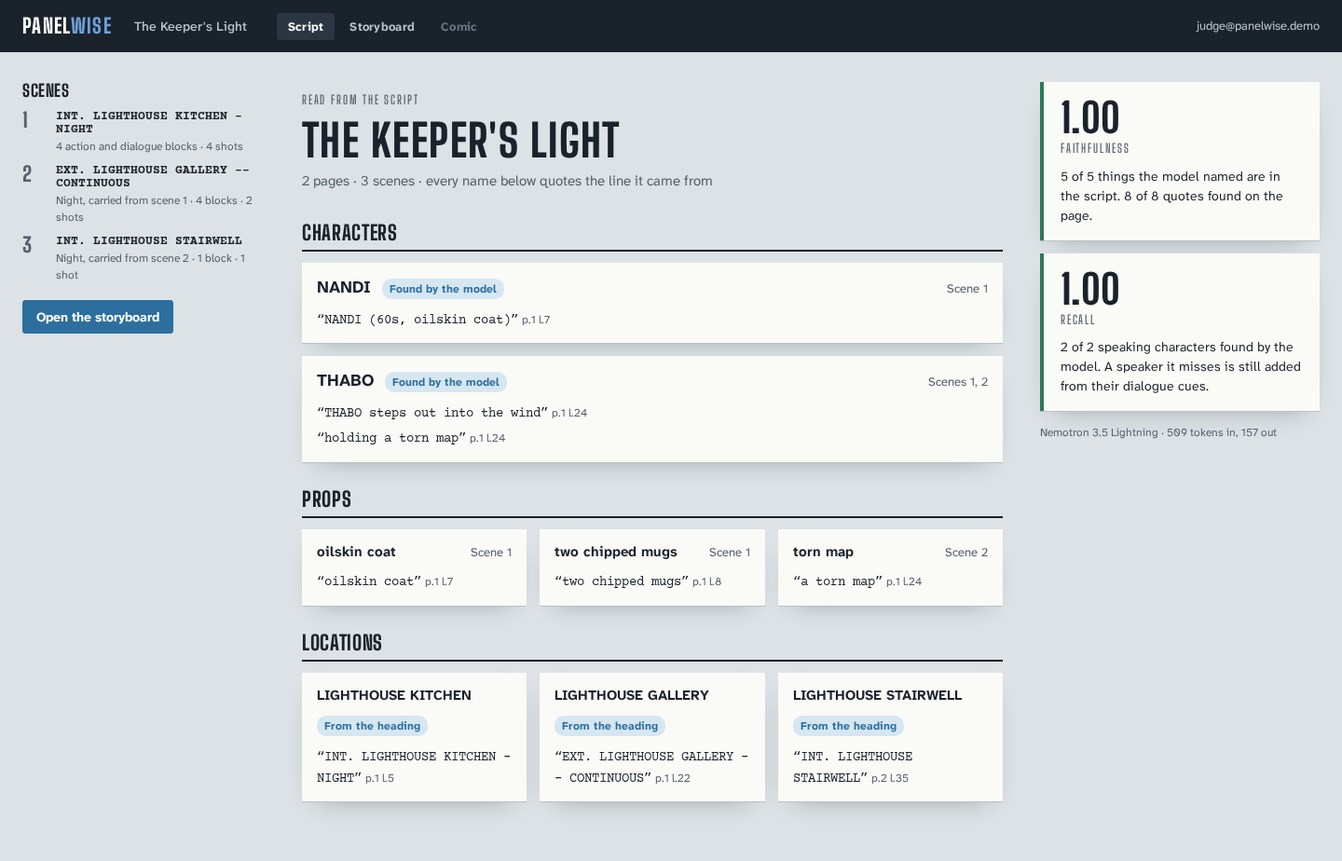
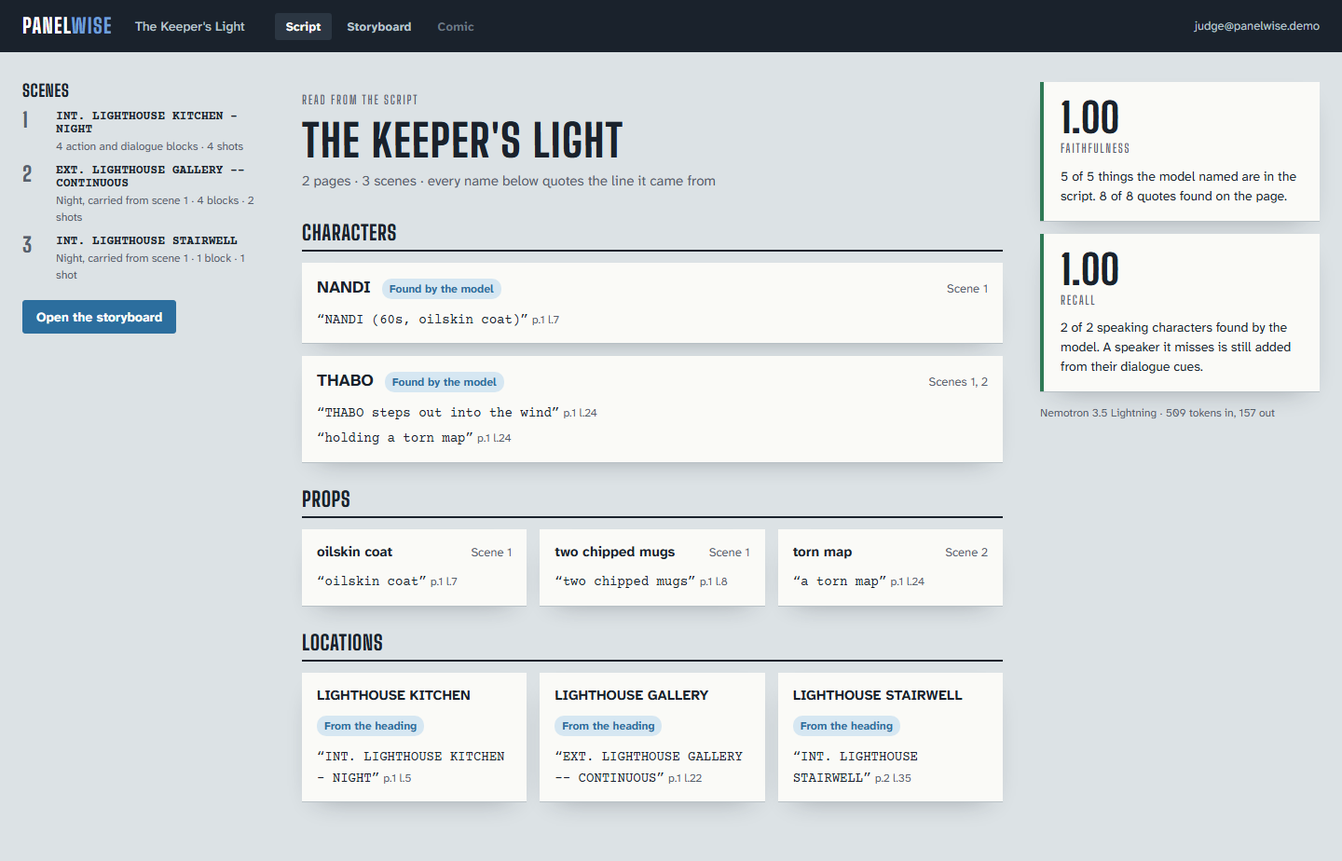
docs(web): T041 design: the script page's states, job strip, carried-from rule, script-states.png

diff --git a/docs/design/web/mockups/script-states.html b/docs/design/web/mockups/script-states.html
@@ -1,0 +1,59 @@
+<!doctype html>
+<html lang="en"><head><meta charset="utf-8"><meta name="viewport" content="width=device-width, initial-scale=1">
+<title>Script (states) — Panelwise</title>
+<link rel="stylesheet" href="tokens.css"><link rel="stylesheet" href="script.css">
+<style>
+  /* Two screens script.png doesn't draw (web.md §4.2): a project whose job failed, and the
+     not-found page. Same tokens; the screens are stacked here, separated by a rule. */
+  .screen { min-height: 450px; }
+  .screen + .screen { border-top: 6px solid var(--ink-2); }
+  .failed-page { max-width: 1440px; margin: 0 auto; padding: 32px 24px 64px 324px; }
+  .failed-page .intro h1 { margin: 6px 0 8px; font-size: 48px; }
+  .failed { max-width: 640px; margin-top: 24px; background: var(--paper); box-shadow: var(--shadow-page); padding: 18px 20px; border-left: 4px solid var(--withheld); }
+  .failed p { margin: 10px 0 0; }
+  .failed .stage { font-size: 14px; color: var(--ink-2); }
+  .failed .btn { margin-top: 16px; }
+  .missing { display: grid; place-items: center; padding: 72px 16px; }
+  .missing .card { width: min(440px, 100%); background: var(--paper); box-shadow: var(--shadow-page); padding: 28px; border-top: 4px solid var(--line-1); }
+  .missing h1 { font-size: 30px; }
+  .missing p { margin: 10px 0 0; color: var(--ink-2); }
+  .missing .btn { margin-top: 20px; }
+</style></head>
+<body>
+<div class="screen">
+  <header class="bar">
+    <a class="wordmark" href="projects.html">Panel<span>wise</span></a>
+    <span class="project">saltpan-draft-3</span>
+    <nav aria-label="Project"><a href="script.html" aria-current="page">Script</a><a aria-disabled="true" title="The storyboard isn't built yet">Storyboard</a><a aria-disabled="true" title="Comic pages aren't built yet">Comic</a></nav>
+    <span class="spacer"></span>
+    <span class="who">judge@panelwise.demo</span>
+  </header>
+  <main class="failed-page">
+    <section class="intro">
+      <p class="eyebrow">Read from the script</p>
+      <h1>saltpan-draft-3</h1>
+    </section>
+    <section class="failed" aria-label="This run failed">
+      <span class="verdict withheld">Couldn't read the script</span>
+      <p>Reading the script failed at scene 12A. Nothing was saved from this run. Upload the script again to retry.</p>
+      <p class="stage">It stopped while reading the script.</p>
+      <a class="btn quiet" href="projects.html">Back to your screenplays</a>
+    </section>
+  </main>
+</div>
+
+<div class="screen">
+  <header class="bar">
+    <a class="wordmark" href="projects.html">Panel<span>wise</span></a>
+    <span class="spacer"></span>
+    <span class="who">judge@panelwise.demo</span>
+  </header>
+  <main class="missing">
+    <section class="card">
+      <h1>This screenplay isn't here</h1>
+      <p>It may have been deleted, or it belongs to another account.</p>
+      <a class="btn quiet" href="projects.html">Back to your screenplays</a>
+    </section>
+  </main>
+</div>
+</body></html>

diff --git a/docs/design/web/mockups/script.html b/docs/design/web/mockups/script.html
@@ -54,7 +54,7 @@
     <ol>
       <li><b>1</b><span>INT. LIGHTHOUSE KITCHEN - NIGHT</span><em>4 action and dialogue blocks · 4 shots</em></li>
       <li><b>2</b><span>EXT. LIGHTHOUSE GALLERY -- CONTINUOUS</span><em>Night, carried from scene 1 · 4 blocks · 2 shots</em></li>
-      <li><b>3</b><span>INT. LIGHTHOUSE STAIRWELL</span><em>Night, carried from scene 2 · 1 block · 1 shot</em></li>
+      <li><b>3</b><span>INT. LIGHTHOUSE STAIRWELL</span><em>Night, carried from scene 1 · 1 block · 1 shot</em></li>
     </ol>
     <a class="btn" href="storyboard.html">Open the storyboard</a>
   </nav>

diff --git a/docs/design/web.md b/docs/design/web.md
@@ -34,6 +34,7 @@ code, and `tokens.css` is the token source every value below comes from.
 | Projects + upload | [web/projects.png](web/projects.png) | [web/mockups/projects.html](web/mockups/projects.html) |
 | Projects: the states projects.png doesn't draw (§4.1a) | [web/projects-states.png](web/projects-states.png) | [web/mockups/projects-states.html](web/mockups/projects-states.html) |
 | Script | [web/script.png](web/script.png) (full page) | [web/mockups/script.html](web/mockups/script.html) |
+| Script: failed, and a project that isn't there (§4.2) | [web/script-states.png](web/script-states.png) | [web/mockups/script-states.html](web/mockups/script-states.html) |
 | Storyboard | [web/storyboard.png](web/storyboard.png) (full page) | [web/mockups/storyboard.html](web/mockups/storyboard.html) |
 | Frame detail (sheet) | [web/storyboard-frame.png](web/storyboard-frame.png) | [web/mockups/storyboard-frame.html](web/mockups/storyboard-frame.html) |
 | Storyboard on a phone | [web/storyboard-phone.png](web/storyboard-phone.png) (390 px) | same file, narrow viewport |
@@ -319,6 +320,65 @@ came from: "Found by the model", "Added from dialogue cues", "From the heading")
 (faithfulness and recall **always together**, each with its counts in words, then the models and
 tokens). Dropped entities are counted in the report and never listed (SPEC US1). On a phone the
 columns stack: intro, report, entities, scenes.
+
+**`/projects/[id]/script`** (T041), by the job (§5):
+
+| Project | The page |
+|---|---|
+| `entities` null, job `queued` or `running` (queued, reading) | the bar, the job strip, nothing else |
+| `entities` set, job `running` (planning, rendering) | the job strip, then the whole page; scenes without a plan show no shot count |
+| job `done` | the whole page, no job strip |
+| job `failed` | the intro, then the failed card (script-states.png) |
+
+- **Live:** while the job is `queued` or `running` a client part polls `GET /api/projects/[id]/status`
+  every 2 s; when the job's `state` or `stage` changes it re-renders the page from the server
+  (`router.refresh()`), so a stage's results appear as it finishes. A 401 goes to `/sign-in`.
+- **Job strip** (`components/shared/JobStrip.tsx`, T041; T042's storyboard uses the same one;
+  storyboard.png draws it): under the bar, `role="status"`. The stage in words, as an eyebrow:
+  `queued` "Queued", `parsing`/`extracting` "Reading the script", `planning` "Planning shots",
+  `rendering` "Rendering frames". Then a 220 px meter: settled ÷ total while rendering with `frames`
+  set, else `job.progress`. Then, while rendering with `frames` set only: "{settled} of {total}
+  frames settled · {withheld} withheld" (the withheld part only when above 0).
+- **Bar:** the project's title and tabs, Script current, who is signed in (script.png; no sign-out
+  on project pages).
+- **Intro:** eyebrow "Read from the script", the title, then "{pages} pages · {scenes} scenes ·
+  every name below quotes the line it came from" (singular for 1).
+- **Scenes** (left column, `SceneIndex` → `SceneItem`): the number (display face), the heading
+  (Courier, bold), then a detail line joined with " · ": when `time_carried`, "{Time}, carried
+  from scene {n}", where {Time} is `time_of_day` in sentence case and {n} the number of the
+  **nearest earlier scene whose own heading set it** (the nearest earlier scene with
+  `time_carried` false and a `time_of_day`: `resolve_times` carries the clock from there); then
+  "{e} action and dialogue blocks" on the first scene and "{e} blocks" after it (singular for
+  1); then "{s} shots" once planned. A scene whose time comes from its own heading shows no time:
+  the heading already says it.
+- **Entities** (`EntitySection` → `EntityCard` → `QuoteLine`): sections "Characters", "Props",
+  "Locations", in that order, each only when it has entities, cards in extraction order.
+  Characters are full-width cards; props and locations are smaller cards in a grid (auto-fill,
+  230 px minimum). A card: the name (body face, bold), its source tag (`model` "Found by the
+  model", `cue` "Added from dialogue cues", `heading` "From the heading"; **props carry no tag**,
+  since only the model names props), then where: "Scene {n}" or "Scenes {n}, {m}" from `scenes`
+  mapped to scene numbers, for characters and props (a location's quote is its heading, which
+  already says where). Then each quote on its own line: “{text}” in Courier, then its `SpanRef`.
+- **Report** (`ReportPanel` → `ScoreCard` ×2, `ModelLine`; right column, sticky): faithfulness,
+  then recall, always both: the score to two decimals (display face), its label, its §6 copy.
+  A card's left edge is `--pass` at 1.00 and `--warn` below. Then the model line: each model's
+  display name, joined " · ", then " · {prompt} tokens in, {completion} out" (en-GB digit
+  grouping). Display names: `nvidia/Nemotron-3_5-Lightning` "Nemotron 3.5 Lightning",
+  `nvidia/nemotron-3-super-120b-a12b` "Nemotron 3 Super"; any other id is shown as it is.
+- **Failed** (script-states.png): the intro, then a card with a `--withheld` left edge: the row's
+  verdict (§4.1a: "Couldn't read the script", or "Couldn't render the frames" at `rendering`),
+  `job.error` verbatim, "It stopped while {stage words}." (the job strip's words, lower case; left
+  out when `stage` is null), and a quiet button "Back to your screenplays" (`/projects`).
+- **Not there:** a project id the API answers 404 for (malformed, missing or someone else's,
+  §6) renders the app's not-found page (`app/not-found.tsx`, script-states.png): a paper card
+  with "This screenplay isn't here", "It may have been deleted, or it belongs to another account."
+  and the button "Back to your screenplays". The same page serves any unknown route.
+- **Unavailable:** the API unreachable or a 503 → under the bar, "This screenplay can't be loaded
+  right now. Reload the page to try again."
+- **Staged, until T042 builds the storyboard:** the Storyboard tab is disabled with the tooltip
+  "The storyboard isn't built yet" and the scenes column has no "Open the storyboard" button;
+  a projects-list title (every row but a failed one) links to `/projects/{id}/script`. **T042**
+  enables the tab, adds the button (script.png) and points the titles at the storyboard (§4.1a).
 
 ### 4.3 Storyboard
 
@@ -703,7 +763,7 @@ rows, so their builders are T047's (`FrameView`, with `audits` `[]`) and T021's 
 **Web routes** (Next.js App Router): `/sign-in`, `/projects`, `/projects/[id]/script`,
 `/projects/[id]/storyboard` (`?shot=` opens the sheet), `/projects/[id]/comic` (T024; until then
 the tab is disabled, with the tooltip "Comic pages aren't built yet"). `/` has no page: the proxy redirects it (§4.0). Route handlers proxy the API server-side (deploy.md §4): `POST /api/projects`, `GET /api/projects` (the list, polled by `/projects`, §4.1a),
-`GET /api/projects/[id]/status`, `GET /api/projects/[id]/frames`, `GET /api/projects/[id]/storyboard.pdf`,
+`GET /api/projects/[id]/status` (T041: the job, for the script page's poll and T042's), `GET /api/projects/[id]/frames`, `GET /api/projects/[id]/storyboard.pdf`,
 `POST /api/projects/[id]/frames/[scene]/[number]/attempts`.
 
 **Component tree** (`apps/web/components/`, each built on shadcn/ui primitives restyled with the
@@ -715,17 +775,19 @@ SignInForm
 ProjectsPage
 ├── UploadPanel (DropZone, TitleField, "Board this script" button)
 └── ProjectList → ProjectRow (title, facts, JobState line, meter | error)
-ScriptPage
+ScriptPage   [T041]
+├── JobStrip (shared, while the job is queued or running)
 ├── SceneIndex → SceneItem
 ├── EntitySection (kind) → EntityCard → QuoteLine (Quote + SpanRef)
-└── ReportPanel → ScoreCard ×2, ModelLine
+├── ReportPanel → ScoreCard ×2, ModelLine
+└── FailedCard
 StoryboardPage
 ├── ExportButton (in AppBar actions; disabled until settled)   [T042]
-├── JobStrip
+├── JobStrip (shared, T041)
 ├── LinedScript → ScriptSheet (per page) → ScriptLine*, ShotLine* ; Legend
 ├── FrameBoard → SceneHeader, FrameCard (FrameMedia | PendingMedia | WithheldCard | FailedCard)   [T042]
 └── FrameSheet → FrameMedia, SourceBlock, InFrame   [T045], AuditLog → AttemptItem → CheckList   [T021]
-shared (components/shared/, T040): Verdict, SpanRef, Quote (Courier), Meter
+shared (components/shared/): Verdict, SpanRef, Quote (Courier), Meter (T040); JobStrip (T041)
 ```
 
 **Copy** (sentence case, the user's side of the screen; actions keep their names through the flow):
@@ -738,6 +800,7 @@ shared (components/shared/, T040): Verdict, SpanRef, Quote (Courier), Meter
 | Upload errors, row states, empty list | §4.1a, verbatim |
 | Sign-in (in progress, unavailable) | "Signing in…" · "Signing in isn't working right now. Try again in a minute." |
 | Script eyebrow | "Read from the script" |
+| Script states (live, failed, not found, unavailable, staged) | §4.2, verbatim |
 | Faithfulness | "{g} of {p} things the model named are in the script. {l} of {q} quotes found on the page." |
 | Recall | "{f} of {c} speaking characters found by the model. A speaker it misses is still added from their dialogue cues." |
 | Withheld | "Frame withheld: failed audit ({check in words})" · button "Try another render" |
@@ -772,8 +835,8 @@ character", `light` "light", `framing` "framing", `audit_error` "the audit could
 | `apps/web/lib/{supabase,api}/*`, `apps/web/proxy.ts` | new | `@supabase/ssr` session, typed API client, §6 types; the proxy's redirects (§4.0) | T040 |
 | `apps/web/app/(auth)/sign-in/`, `apps/web/app/projects/page.tsx`, `apps/web/app/api/projects/route.ts`, `apps/web/components/AppBar.tsx` (ProjectTabs inside), `apps/web/components/SignInForm.tsx`, `apps/web/components/projects/*` (ProjectsPage parts) | new | §4.0, §4.1 | T040 |
 | `apps/web/components/shared/{Verdict,SpanRef,Quote,Meter}.tsx` | new | used by every screen | T040 |
-| `apps/web/app/projects/[id]/script/`, `components/script/*` | new | §4.2 | T041 |
-| `apps/web/app/projects/[id]/storyboard/`, `components/storyboard/LinedScript.tsx` (ScriptSheet, ScriptLine, ShotLine, Legend inside), `FrameBoard.tsx` (SceneHeader inside), `FrameCard.tsx` (PendingMedia, WithheldCard, FailedCard inside), `FrameMedia.tsx` (T045 imports it), `JobStrip.tsx`, `apps/web/app/api/projects/[id]/{status,frames}/route.ts` | new | §4.3 | T042 |
+| `apps/web/app/projects/[id]/script/`, `components/script/*`, `components/shared/JobStrip.tsx`, `apps/web/app/api/projects/[id]/status/route.ts`, `apps/web/app/not-found.tsx` | new | §4.2 | T041 |
+| `apps/web/app/projects/[id]/storyboard/`, `components/storyboard/LinedScript.tsx` (ScriptSheet, ScriptLine, ShotLine, Legend inside), `FrameBoard.tsx` (SceneHeader inside), `FrameCard.tsx` (PendingMedia, WithheldCard, FailedCard inside), `FrameMedia.tsx` (T045 imports it), `apps/web/app/api/projects/[id]/frames/route.ts` | new | §4.3 | T042 |
 | `components/storyboard/{FrameSheet,SourceBlock,InFrame}*` | new | §4.4 steps 1–4 | T045 |
 | `components/storyboard/AuditLog.tsx` (AttemptItem, CheckList inside), the "Try another render" action (an edit to T042's `FrameCard.tsx`), `apps/web/app/api/projects/[id]/frames/[scene]/[number]/attempts/route.ts` | new | §4.4 step 5; §4.3 retry | T021 |
 | `apps/web/app/api/projects/[id]/storyboard.pdf/route.ts`, `components/storyboard/ExportButton.tsx` | new | §4.3 export | T042 |
@@ -813,7 +876,9 @@ restyled).
   for every state but passed and warned; `page_starts[0] == 1`.
 - **Web (T040–T042, T045):** vitest + Testing Library on each component's states: every `ProjectRow`
   row of §4.1a and each upload error by status and code (T040); the proxy's redirects, the cookies
-  a redirect carries, and `/api/*` never redirected (T040); every row of the card
+  a redirect carries, and `/api/*` never redirected (T040); every row of §4.2's page table, the
+  carried-from scene, props without a tag, scores always together, the failed card, polling
+  that refreshes on a stage change (T041); every row of the card
   table renders; **no `<img>` for a frame outside passed/warned**; a shot line's top and height come
   from its span; a dialogue segment off screen draws wavy; the sheet opens from `?shot=`; the lined
   script is hidden and the source shown on a narrow viewport; polling continues while any frame is

diff --git a/STATUS.md b/STATUS.md
@@ -39,7 +39,7 @@ _Last updated: 2026-10-05 — by Tumo (via Claude)_
 | `script+grounding` | Parser, scene time, dialogue linker, extraction, grounding filter | T005, T006, T039, T048 | Katlego | Claude | ✅ T005, T006, T039, T048 done (T048: PR #31 design, PR #32 code) · ✅ T051 animals + other names (PR #40 design, PR #41 code) |
 | `shots` | Shot planner | T007 | | | ✅ T007 done |
 | `storyboard` | Frames, style registry (public/private split), image chain, PDF | T008, T026, T027 | Katlego | Claude | ✅ T008 done (PR #27) · ✅ T050 title redaction done (PR #37 design, PR #38 code) · ✅ T052 labels + figure count (PR #42 signatures, PR #43 code) · 🔴 T026 (renderer, Storage) blocked on T003 (GPU) and T021 (an interim Cloudflare renderer is proposed, awaiting Katlego) · T027 (PDF) after T026 |
-| `web` | Next.js app: upload → shots → storyboard → comic reader | T009, T053, T043, T046, T044, T047, T040–T042, T045, T024 | Tumo | Claude | ✅ design (docs/design/web.md, PR #24) · ✅ T043 pipeline core (no database, PR #26) · ✅ T044 schemas and view builders (PR #28) · ✅ T009 database foundation (PR #51) · ✅ T053 sign-in, storage, upload (PR #52) · ✅ T046 pipeline as a job (PR #53) · ✅ T047 read endpoints + frames table (PR #55) · 🟡 T040 (tokens, sign-in, projects, upload): design fix PR (`proxy.ts`), then the code · ⬜ T041, T042, T045 after it |
+| `web` | Next.js app: upload → shots → storyboard → comic reader | T009, T053, T043, T046, T044, T047, T040–T042, T045, T024 | Tumo | Claude | ✅ design (docs/design/web.md, PR #24) · ✅ T043 pipeline core (no database, PR #26) · ✅ T044 schemas and view builders (PR #28) · ✅ T009 database foundation (PR #51) · ✅ T053 sign-in, storage, upload (PR #52) · ✅ T046 pipeline as a job (PR #53) · ✅ T047 read endpoints + frames table (PR #55) · 🔵 T040 code in draft PR #64 (review approve, CI green; its live check waits on Tumo's keys) · 🟡 T041 script page: design PR, then code · ⬜ T042, T045 |
 | `verify` | Frame audit (vision model describes, Nemotron judges), re-render loop, audit log | T010, T020, T021 | Katlego | Claude | ✅ T010 design done · ✅ T020 done (PR #22) · ✅ T052's audit part (animals as objects, PR #43) · T021 waits on T045 (full scope in TASKS.md; builds against verify's `Renderer`, so not on T026) |
 | `comic` | Page layout, panel sizing, speech bubbles, comic export | T011, T022, T023 | Katlego | Claude | ✅ T022 done · ✅ T023 done (PR #29; on `PanelFrame` bytes; seeing it on real renders waits on T026, GPU) |
 | `characters` | Reference portraits for consistent characters | T012, T025 | | | ✅ T012 design done · T025 waits on T003 |
@@ -198,3 +198,4 @@ Buildable now, no external dependency: **T040** (web: tokens, sign-in, projects,
 - 2026-10-06 — Tumo (via Claude) — T040 design, PR #62 round 2: web.md §4.1a (the projects page: every ProjectRow state, the upload panel's states and error copy by status/code, polling, the GET/POST route handlers) with a new reference projects-states.png (+ mockups/projects-states.html) for the states projects.png doesn't draw; §4.0 adds the proxy matcher, cookies carried on redirects, `/` handled by the proxy alone, `getClaims()` as the server-side guard, sign-in/sign-out actions. Declared staging: T040 rows aren't links and the upload doesn't redirect until T042 (T042's Files updated). Next: T040 code after the review. Blocked on: nothing.
 - 2026-10-06 — Tumo (via Claude) — T040 code on `feat/web-t040` (stacked on #62): Tailwind v4 tokens from tokens.css, shadcn/ui primitives restyled, `proxy.ts` (matcher, cookie refresh carried on redirects, /api never redirected), `getClaims()` guard, sign-in/out server actions, GET/POST /api/projects, the projects page (every §4.1a row state, the upload panel, polling), shared Verdict/SpanRef/Quote/Meter. 118 web tests; lint and build clean. Live: signed-out redirects and 401 JSON checked on `next start`; sign-in matches signin.png (Big Shoulders Display self-hosted, OFL, so the wordmark matches the reference to the pixel). Not yet: the projects page against projects.png/projects-states.png and the live upload, which need the repo-root `.env`. Blocked on: `.env` (Tumo); pushing waits on #63 (the sharp advisory fails every push).
 - 2026-10-06 — Tumo (via Claude) — #62 (T040 design) and #63 (T059) merged on Tumo's go-ahead. T040 code is draft PR #64 (now on main): fallback review approve; its five fixes in (sign-in keeps the email, named file input, list refresh retries and drops stale answers, 640px breakpoint), 120 web tests, gate green. Next: T040's live check (sign in, upload the-red-kite, watch the row) and /projects beside projects.png and projects-states.png, then #64 out of draft. Blocked on: the live check needs the repo-root `.env`, which this session's permissions don't let Claude read; Tumo to choose how (allow it, or run the servers themselves).
+- 2026-10-06 — Tumo (via Claude) — T040's live check waits on Tumo's keys ("later"), so T041 starts. Design PR: web.md §4.2 gains the script page's states (live with the job strip, failed, not found, unavailable), the carried-from rule (the scene whose heading set the clock, per `resolve_times`; script.png said "scene 2" for a time carried from scene 1, re-rendered), props without a source tag, model display names, scores' edge colour; new reference script-states.png. JobStrip and the status route move from T042 to T041 (the script page needs them first); T041 stages the Storyboard tab and button for T042. Next: T041 code. Blocked on: nothing (T040's live check: keys).

diff --git a/TASKS.md b/TASKS.md
@@ -245,17 +245,17 @@ Each user-story phase is ordered **Design → Tests FIRST (must FAIL) → Implem
       Verify:  pnpm lint && pnpm test (every §4.1a ProjectRow state, each upload error by status and code, the proxy's redirects carrying their cookies, /api/* never redirected); then the running app side by side with docs/design/web/signin.png, projects.png and projects-states.png at 1440 px
       Done:    signed out redirects to sign-in; a signed-in user uploads a PDF and sees it in the list with its live job state or its failure message, matching the three references in layout, tokens and copy. Staged, per web.md §4.1a: row titles aren't links and the upload doesn't redirect until T042
 - [ ] T041 [US1] **Web: script page.** Lane `web` (Claude). Depends on T040, T047.
-      Design:  docs/design/web.md §4.2, §5, §6
-      Files:   apps/web/app/projects/[id]/script/*; apps/web/components/script/*; tests beside them
-      Contract:consumes GET /api/v1/projects/{id} → Project (web.md §6)
-      Verify:  pnpm test (entity sources, report counts in words, dropped entities never listed, stacked on a phone); compare with docs/design/web/script.png
-      Done:    every entity shows each quote in Courier with its page/line span, and faithfulness and recall always appear together with their counts, matching script.png
+      Design:  docs/design/web.md §4.2 (incl. the page table, job strip, failed, not found, staging), §5, §6
+      Files:   apps/web/app/projects/[id]/script/*; apps/web/components/script/*; apps/web/components/shared/JobStrip.tsx; apps/web/app/api/projects/[id]/status/route.ts; apps/web/app/not-found.tsx; apps/web/components/AppBar.tsx and apps/web/components/projects/ProjectRow.tsx (the staging, web.md §4.2); tests beside them
+      Contract:consumes GET /api/v1/projects/{id} → Project (web.md §6); GET /api/projects/[id]/status → ProjectSummary
+      Verify:  pnpm test (every row of §4.2's page table; entity sources and props untagged; carried-from scene; report counts in words, scores always together; dropped entities never listed; the failed card; polling refreshes on a stage change; not found; stacked on a phone); compare with docs/design/web/script.png and script-states.png at 1440 px
+      Done:    every entity shows each quote in Courier with its page/line span, and faithfulness and recall always appear together with their counts, matching script.png; a project still being read shows its job strip and fills in as stages finish
 - [ ] T042 [US1] **Web: storyboard board (lined script and frame cards).** Lane `web` (Claude). Depends on T041. Frames appear only once T021 moves a frame to passed/warned; before that the cards show "Not rendered yet", the real state (web.md §3, §4.1).
       Design:  docs/design/web.md §4.3, §5, §6
-      Files:   apps/web/app/projects/[id]/storyboard/*; apps/web/components/storyboard/{LinedScript,FrameBoard,FrameCard,FrameMedia,JobStrip,ExportButton}.tsx (sub-components per web.md §7); apps/web/app/api/projects/[id]/{status,frames,storyboard.pdf}/*; apps/web/components/projects/* (T040's staged parts, web.md §4.1a: row titles become links, the upload redirects to the storyboard); tests beside them
-      Contract:consumes …/lines, …/shots, …/frames, …/status (web.md §6)
+      Files:   apps/web/app/projects/[id]/storyboard/*; apps/web/components/storyboard/{LinedScript,FrameBoard,FrameCard,FrameMedia,JobStrip,ExportButton}.tsx (sub-components per web.md §7); apps/web/app/api/projects/[id]/{frames,storyboard.pdf}/*; apps/web/components/projects/* (T040's and T041's staged parts, web.md §4.1a, §4.2: row titles link to the storyboard, the upload redirects to it); the Storyboard tab and "Open the storyboard" (T041's staging, web.md §4.2); tests beside them
+      Contract:consumes …/lines, …/shots, …/frames, …/status (web.md §6; the status route and JobStrip are T041's)
       Verify:  pnpm test (every card-table row; no <img> outside passed/warned; withheld source shown once; shot line top/height from spans; wavy off-screen segments; polling while any frame is active; Export PDF disabled with its tooltip until every frame has settled; lined script hidden below 1100 px); compare with docs/design/web/storyboard.png and storyboard-phone.png
-      Done:    on a planned project every shot appears as a line over exactly its script lines and as a card with its verbatim source, and hovering or focusing either highlights the other, matching the two references; and T040's staging is undone (web.md §4.1a): a projects-list title opens its storyboard, and an accepted upload lands on it
+      Done:    on a planned project every shot appears as a line over exactly its script lines and as a card with its verbatim source, and hovering or focusing either highlights the other, matching the two references; and T040's and T041's staging is undone (web.md §4.1a, §4.2): a projects-list title opens its storyboard, an accepted upload lands on it, and the script page's Storyboard tab and button open it
 - [ ] T045 [US1] **Web: frame sheet.** Lane `web` (Claude). Depends on T042.
       Design:  docs/design/web.md §4.4 steps 1–4, §6
       Files:   apps/web/components/storyboard/{FrameSheet,SourceBlock,InFrame}*; tests beside them
